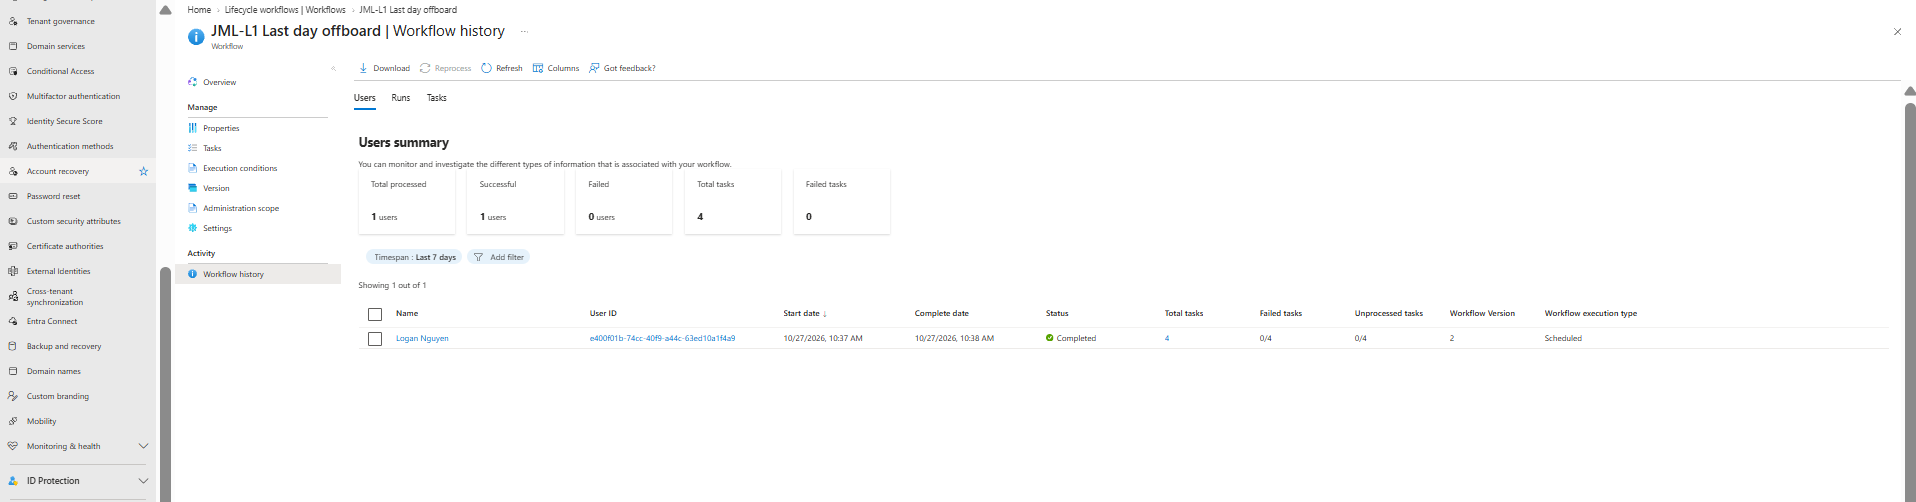
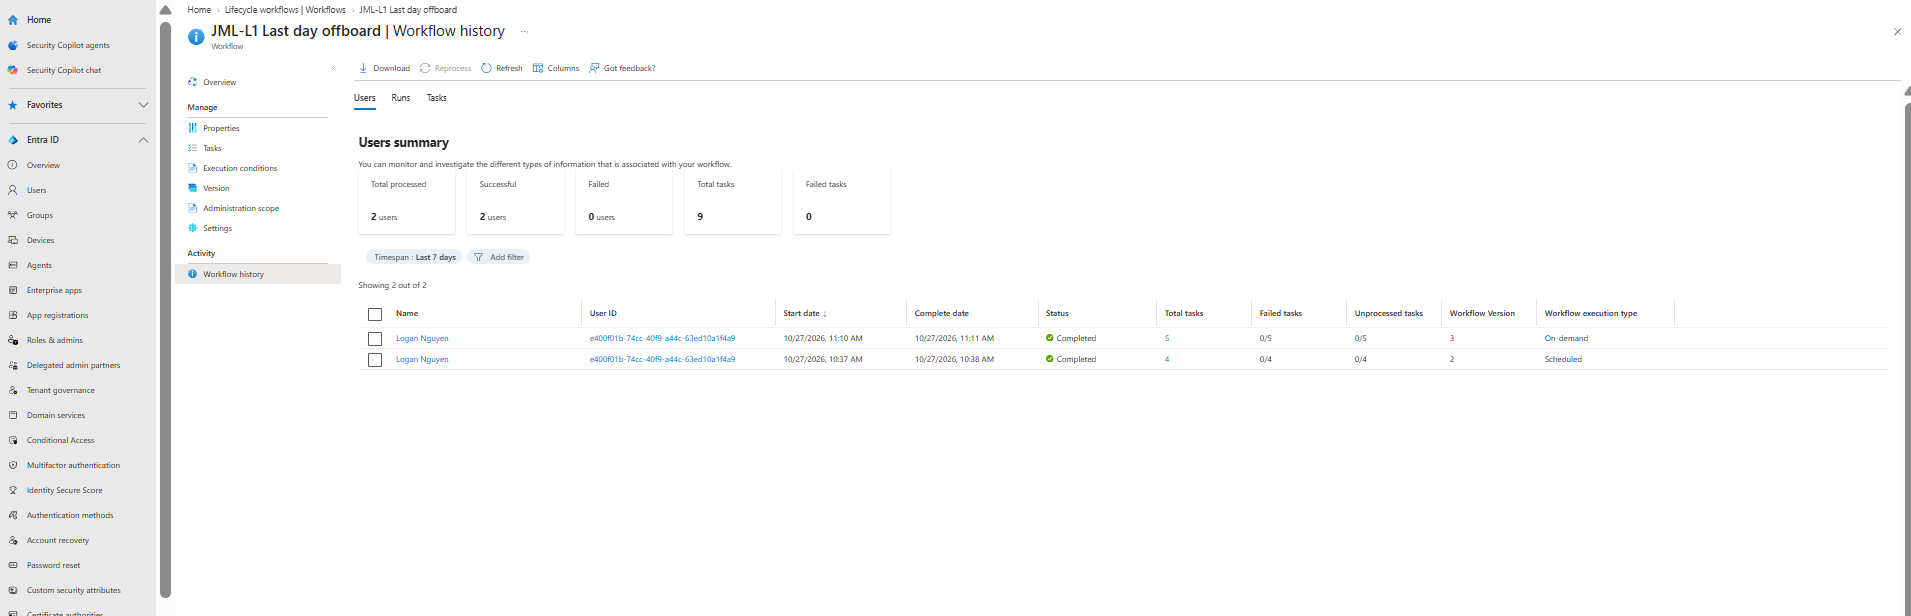
M1.3b: mover + leaver workflows, JML process doc; sync does not re-enable leavers

diff --git a/docs/jml-process.md b/docs/jml-process.md
@@ -1,0 +1,133 @@
+# Joiner / Mover / Leaver (JML) Process — Keystone Fuel & Market
+
+*Module M1.3 · Built in a lab tenant (Microsoft Entra ID Governance trial) · Last updated 2026-10-27*
+
+## 1. Summary
+
+HR is the authoritative source. A nightly HR load (`scripts/load_users.ps1`) **writes data** to Entra ID: attributes, hire date and leave date. **Lifecycle Workflows take the actions:** enable, issue a Temporary Access Pass, notify, disable, revoke and delete. Birthright access is never granted by hand. It comes from the BR dynamic groups (M1.2), which only include enabled accounts.
+
+| Stage | Before (project 1: detect after the fact) | After (this module: prevent) |
+|---|---|---|
+| Joiner | Account active from creation; credentials handled manually | Created **disabled**; TAP issued 7 days early but valid only from 03:00 on day one; enabled automatically on day one |
+| Mover | 24 of 107 movers kept old access (role catalog item 6.3) | Birthright moves with the department attribute; manager notified; requested access removed after a 15-day handover |
+| Leaver | 8 leavers still active at review time | Disabled, sessions revoked and access removed **on the last day**; deleted 7 days later |
+
+## 2. Process flow
+
+```mermaid
+flowchart LR
+    HR["HR feed<br/>(authoritative)"] -->|load_users.ps1| ENTRA["Entra ID user<br/>department, manager,<br/>employeeHireDate,<br/>employeeLeaveDateTime"]
+    ENTRA --> J1["J1 Pre-hire<br/>hire - 7 days<br/>TAP to manager"]
+    ENTRA --> J2["J2 Day one<br/>hire date 03:00 ET<br/>enable account"]
+    ENTRA --> M1["M1 Mover<br/>department changes<br/>notify manager,<br/>remove packages +15 d"]
+    ENTRA --> L1["L1 Last day<br/>leave date 23:00 ET<br/>disable, revoke,<br/>remove access"]
+    L1 --> L2["L2 +7 days<br/>remove licenses,<br/>delete (soft)"]
+    J2 -->|accountEnabled = true| BR["BR dynamic groups<br/>birthright access"]
+    M1 -.->|department rule| BR
+    L1 -->|accountEnabled = false| BR
+```
+
+**Design rules**
+
+1. **The sync writes data; workflows take actions.** `load_users.ps1` sets `accountEnabled` only when it creates an account, so it can never re-enable a leaver (tested: section 4.3).
+2. **Future hires are created disabled.** The BR guard (`accountEnabled -eq true`) keeps them out of birthright groups until day one.
+3. **HR dates are converted to UTC at a set local time** (America/New_York, DST-aware):
+   - hire date at **03:00**, so the account is ready before a 6 a.m. opening shift;
+   - leave date at **23:00**, so a closing shift isn't cut off.
+4. **Every workflow is scoped** to `companyName eq 'Keystone Fuel & Market'`. Admin and break-glass accounts have no companyName, so they're excluded.
+5. **Workflows run on a 1-hour tenant schedule.** A late HR entry is still processed if it's within Microsoft's 3-day catch-up window. Older ones are flagged by the load report (`LeaverMissedWindow`) for a real-time termination on demand.
+
+## 3. Workflow configuration
+
+| ID | Template | Trigger | Tasks |
+|---|---|---|---|
+| JML-J1 Pre-hire TAP to manager | Onboard pre-hire employee | employeeHireDate, 7 days before | Generate TAP (23 h, multi-use, valid from hire time) and email it to the manager |
+| JML-J2 Day one enable | Onboard new hire employee | employeeHireDate, on the day | Enable user account |
+| JML-M1 Department change | Employee job profile change | Attribute change: department | Notify manager of move; remove all access package assignments (15-day scheduled removal) |
+| JML-L1 Last day offboard | Offboard an employee | employeeLeaveDateTime, on the day | Disable account; revoke refresh tokens; remove access package assignments; remove from all groups; remove from all Teams |
+| JML-L2 Plus 7 days delete | Post-offboarding of an employee | employeeLeaveDateTime, 7 days after | Remove all licenses; delete user (soft delete, restorable for 30 days) |
+
+Configuration read back through Microsoft Graph: `evidence/M1.3/workflow_config_after_fix.txt`.
+
+## 4. Test scenarios and results
+
+All HR changes were simulated by editing a copy of the HR feed and running `load_users.ps1 -HrFile <copy>`, never by editing users in Entra. Every run below was **scheduled**, not on demand, unless stated otherwise.
+
+### 4.1 Joiner: Avery Lindqvist (E00301) and Riley Okafor (E00302)
+
+**HR change:** two Store Associates for Store-007, hire date 2026-10-31.
+- Avery reports to Store Manager Morgan Haddad.
+- Riley was entered **with no manager on purpose**.
+
+| Check | Result |
+|---|---|
+| Accounts created | 2 created, both `accountEnabled = false`, hire date 2026-10-31 03:00 ET |
+| Birthright before day one | BR-01/BR-02 unchanged at 276/158: pre-hires excluded by the guard |
+| J1, Avery | **Completed.** TAP created, valid from 10/31 03:00, 23 h; email sent to manager (CC copy redacted in evidence) |
+| J1, Riley | **Failed:** "Manager attribute is missing or invalid" |
+| J2 (day one) | *Pending: runs 2026-10-31 ~03:00–04:00 ET. Expected: both enabled; BR-01 277, BR-02 158* |
+
+**Finding:** a missing manager in HR means a new hire arrives with **no way to sign in on day one**. HR has 32 more records with no manager and 24 whose manager has been terminated (M1.1). Each one is a future failed onboarding. **Owner: HR (data owner). IAM detects and reports it.**
+
+### 4.2 Mover: Rowan Kowalski (E00004), Store Operations → Fuel Operations
+
+| Check | Result |
+|---|---|
+| HR load | 2026-10-27 09:01 |
+| M1 run | Scheduled run 09:37. **Completed, 2 of 2 tasks.** Change detected within one cycle |
+| Birthright | Moved from BR-02 to BR-03 by the department rule; no manual step |
+| Manager email | Sent per run history; CC copy not received (lab mailbox limitation) |
+
+### 4.3 Leaver: Logan Nguyen (E00010), Store Associate, Store-033
+
+**HR change:** terminated with last day 2026-10-26, entered the next morning. That's within the catch-up window.
+
+| Check | Result |
+|---|---|
+| Leave date | 2026-10-26 23:00 ET (2026-10-27 03:00 UTC) |
+| L1 run | Scheduled run 10:37. **Completed, 4 of 4 tasks** (after the scope fix in section 5) |
+| Account | `accountEnabled = false` |
+| Groups | Static "KEY-Store-033 Keyholders" removed by the task. BR-01/BR-02 dropped automatically by the guard. Org-wide M365 group removed after the Teams task was added (section 5). **Final: zero groups** |
+| Sync can't undo it | HR load rerun (278 users updated); Logan **stayed disabled**: `evidence/M1.3/logan_after_resync.txt` |
+| Group counts | BR-01 275 (Logan), BR-02 156 (Rowan out, Logan out), BR-03 18 (Rowan in); others unchanged. Each difference from t0 explained |
+| L2 (+7 days) | *Pending: runs night of 2026-11-01. Expected: deleted, visible under Deleted users* |
+
+## 5. Things that broke (and what they taught)
+
+| Date | What happened | Fix | Lesson |
+|---|---|---|---|
+| 10-25 | `load_users.ps1` sent `accountEnabled = $true` on all 276 updates. It would have re-enabled every leaver. | Set `accountEnabled` only on create | The sync and the workflows must not fight over the same attribute |
+| 10-25 | Changed the schedule to 1 h, but the next run stayed on the old 3 h cycle | None needed; applies from the next cycle | Set the interval **before** enabling schedules |
+| 10-27 | L1 and L2 enabled and scheduled, but processed nobody. Graph read-back showed the template's sample scope `department eq 'Marketing'` | Rescoped to companyName | Verify workflow configuration as data; a control that matches zero users isn't a control |
+| 10-27 | After offboarding, Logan was still in the org-wide M365 group/Team created with the trial | Re-added "Remove user from all Teams" to L1 and reran it for Logan | "We don't use X" isn't the same as "nobody is in X" |
+
+## 6. Control mapping
+
+| Framework | Control | How this module meets it |
+|---|---|---|
+| PCI DSS v4.0 | 8.2.5: access for terminated users is immediately revoked | L1 disables the account and removes access on the last day; the resync test proves it stays revoked |
+| PCI DSS v4.0 | 7.2.1–7.2.2: access based on job function, least privilege | Birthright by department; mover removes old requested access; pre-hires get nothing until day one |
+| NIST SP 800-53 | AC-2 Account management; PS-4 Personnel termination; PS-5 Personnel transfer | J1/J2, L1/L2 and M1 respectively |
+| CIS Controls v8 | 6.1 Establish an access granting process; 6.2 Establish an access revoking process | HR-driven joiner and leaver workflows |
+
+## 7. Open items
+
+| # | Item | Owner |
+|---|---|---|
+| 7.1 | 33 active records with no manager (32 from t0 + Riley) and 24 with a terminated manager. Joiner TAP and mover notification depend on them | HR |
+| 7.2 | `create_dynamic_groups.ps1 -Verify` counts every Active HR row; it should exclude future hires and leavers past their leave date | IAM (M1.4) |
+| 7.3 | Overnight shifts: a 23:00 leave time cuts off a 22:00–06:00 last shift. Agree with HR that the termination date is the day the last shift **ends** | HR + IAM |
+| 7.4 | Access package removal for movers is 15 days. PCI packages (Cash Office, POS admin) should be removed with no grace period. Set this in M2.5 | IAM + Director of Store Operations |
+
+## 8. Evidence (`evidence/M1.3/`)
+
+| File | Shows |
+|---|---|
+| 01-avery-prehire-disabled.png | Pre-hire created disabled, hire date 03:00 |
+| 02-j1-history-users.png / 03-j1-riley-failed-task.png | Joiner TAP run: Avery completed, Riley failed (no manager) |
+| 04-avery-tap-pending.png / 05-tap-email-redacted.png | TAP valid from hire time; manager email (code redacted) |
+| 06-mover-history.png | Rowan, scheduled mover run, 2 of 2 tasks |
+| 08-leaver-history.png | Logan, scheduled leaver run, 4 of 4 tasks |
+| logan_after_resync.txt | Sync rerun does not re-enable a leaver |
+| workflow_config_after_fix.txt | All five workflows' triggers and scopes, read back through Graph |
+| group_counts_*.csv | Birthright group counts against HR before and after the tests |
